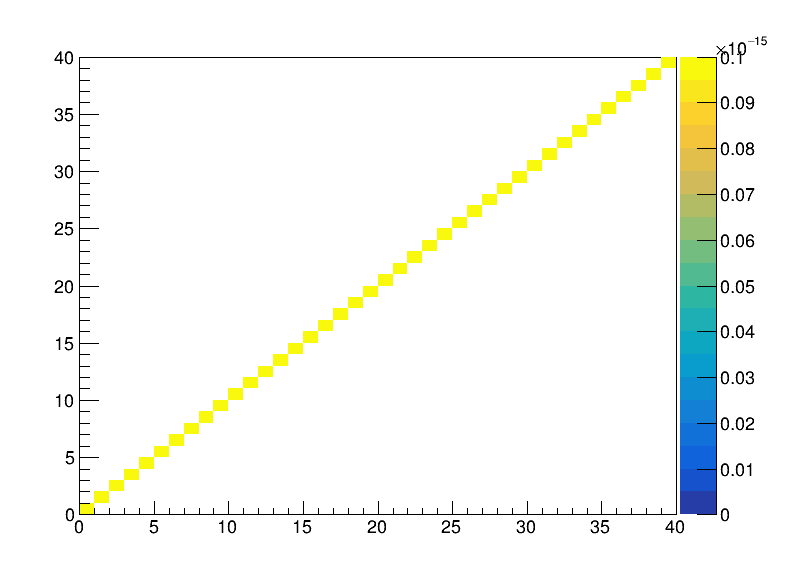
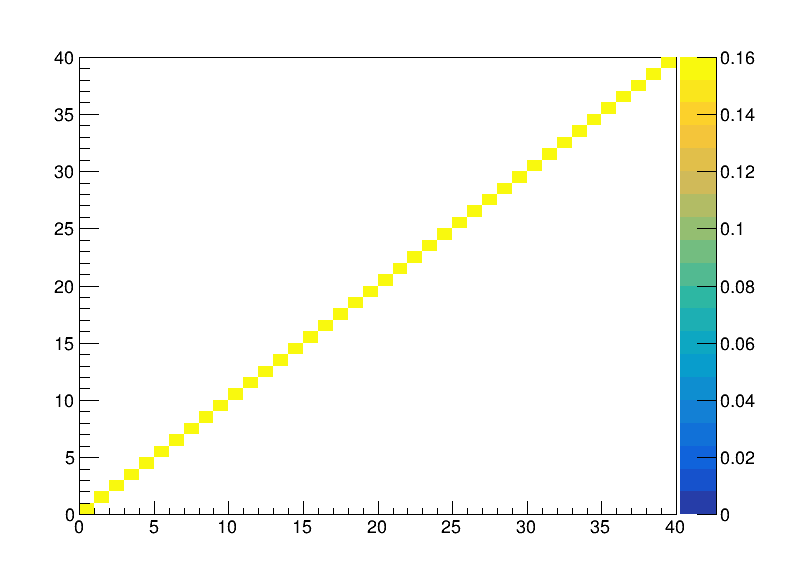
new matrix

diff --git a/src/generate_prior_matrix.py b/src/generate_prior_matrix.py
@@ -112,19 +112,17 @@ def main():
     if args.diagonal:
         diagonal = np.loadtxt(args.diagonal)
         N = len(diagonal)
-        # from sigma to variance
-        diagonal = diagonal**2
         print(f"Using provided diagonal with size {N}")
     else:
         # variance on diagonal
         if no_noise:
-            diagonal = np.full(N, scale**2)
+            diagonal = np.full(N, scale)
         else:
-            diagonal = scale**2 * np.random.normal(loc=1.0, scale=0.1*scale, size=N)
+            diagonal = scale * np.random.normal(loc=1.0, scale=0.1*scale, size=N)
             # avoid negatives (although unlikely)
             for i, d in enumerate(diagonal):
                 while d <= 0:
-                    diagonal[i] = scale**2 * np.random.normal(loc=1.0, scale=0.1*scale)
+                    diagonal[i] = scale * np.random.normal(loc=1.0, scale=0.1*scale)
 
 
     # build positive definite covariance matrix
